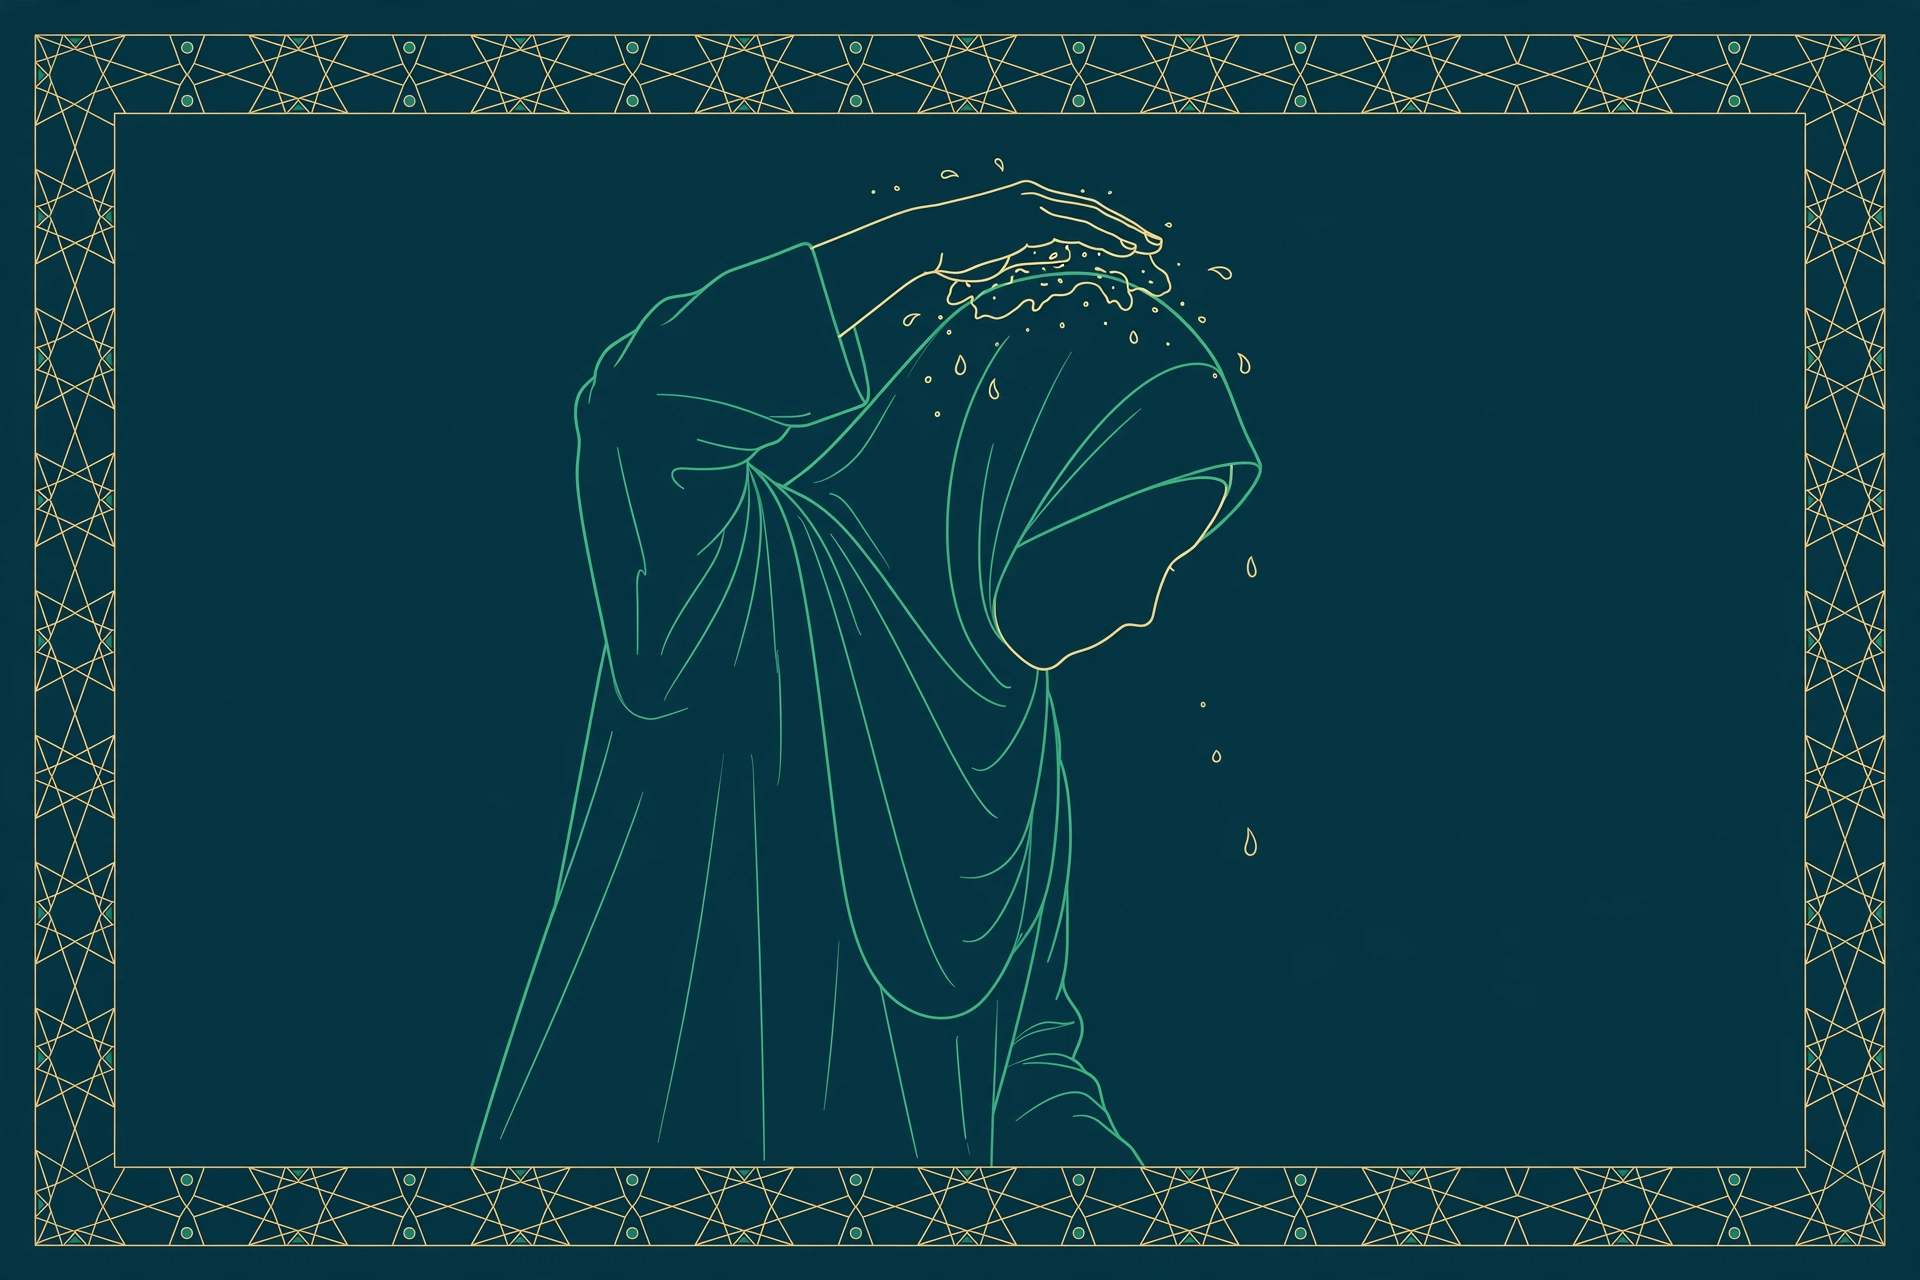
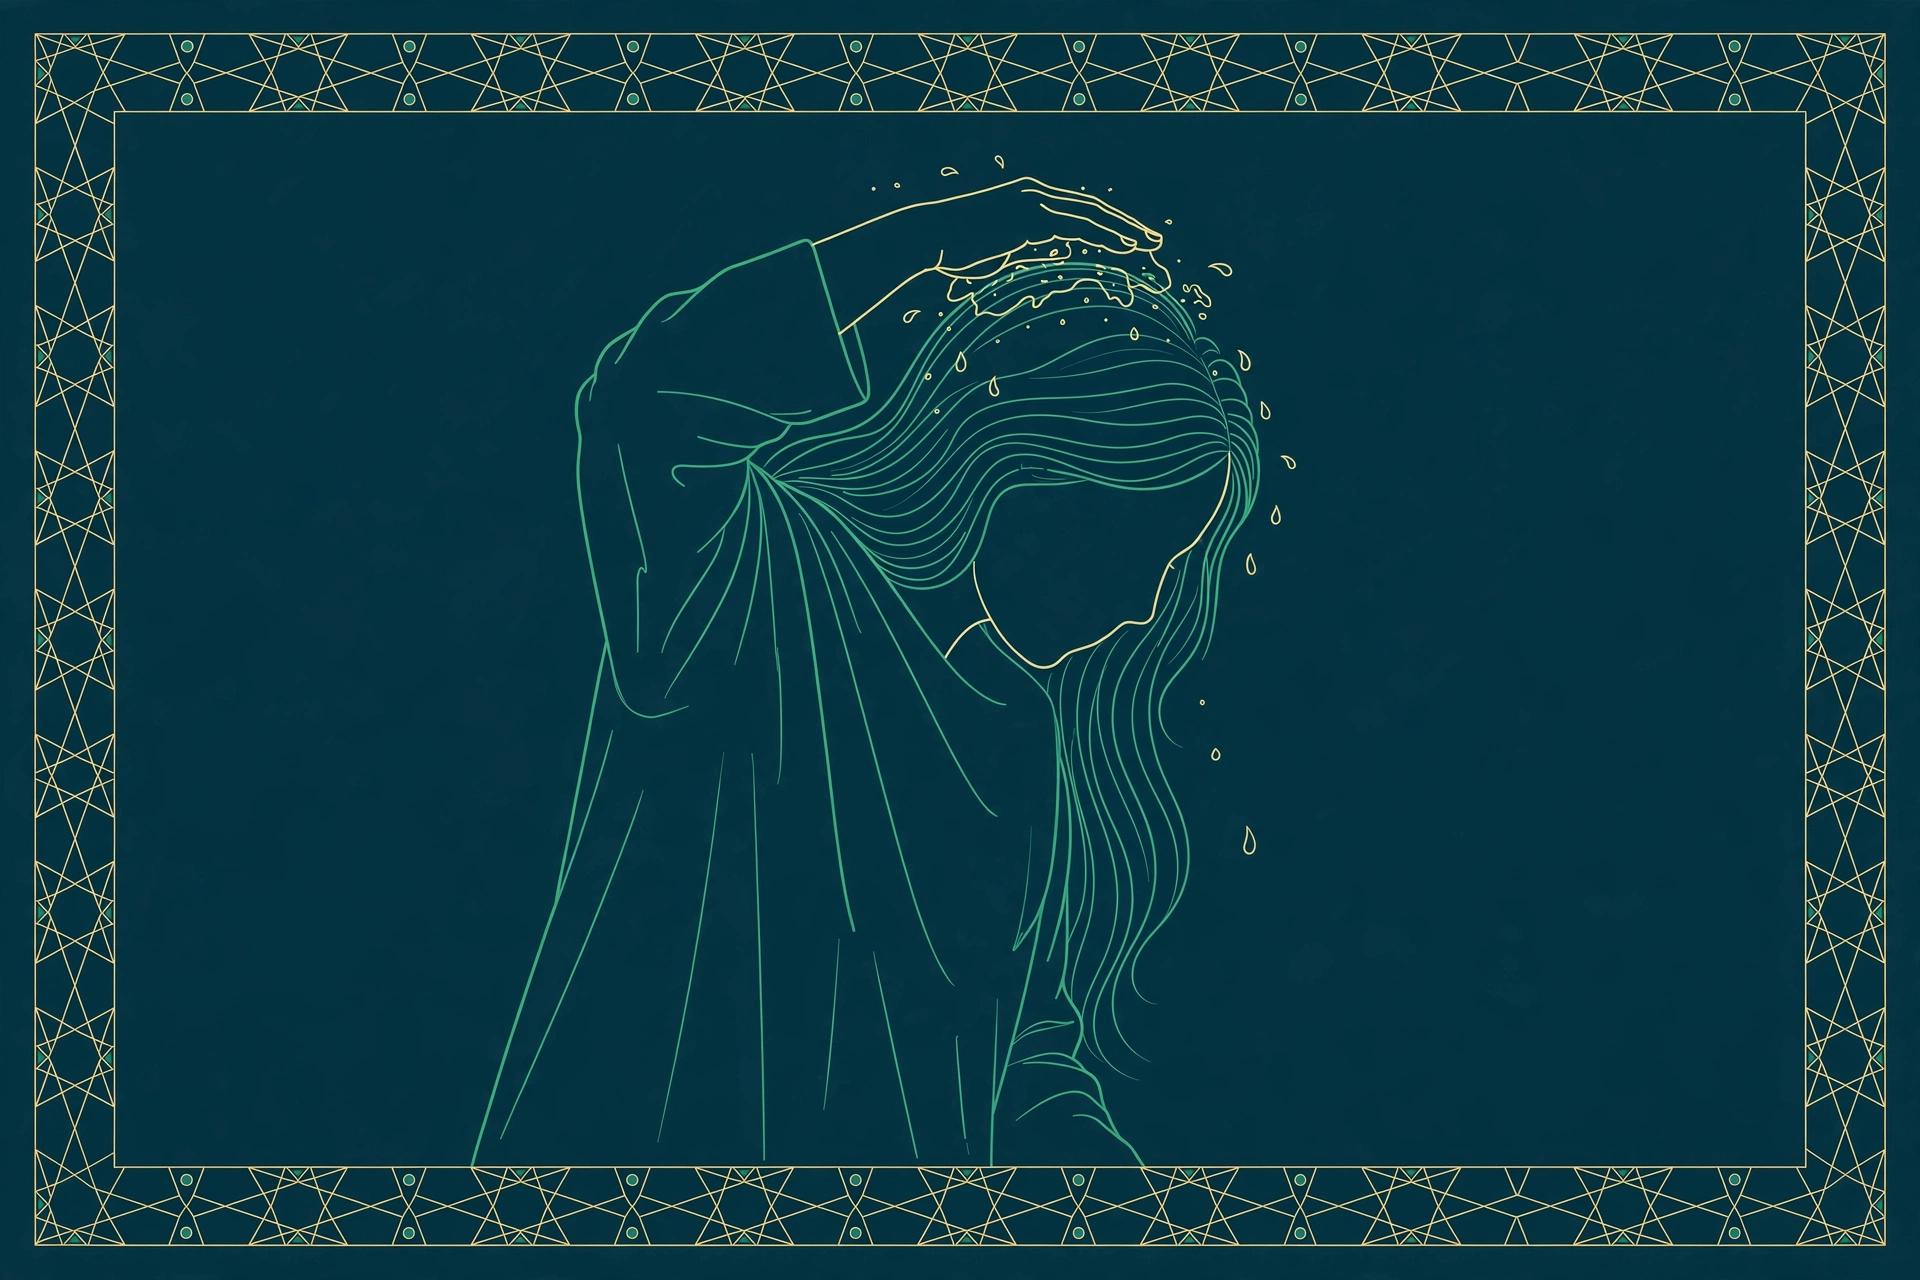
Wudu step 6: wipe the hair itself (hand at front hairline, wipe back); ears once; headcover only for extreme necessity. New wudu-6-head illustration.

diff --git a/learn.js b/learn.js
@@ -89,7 +89,7 @@ body: [
 ["p", "3. Rinse the nose three times, drawing water in gently and blowing it out."],
 ["p", "4. Wash the whole face three times, from the hairline to the chin and from ear to ear."],
 ["p", "5. Wash the right arm up to and including the elbow three times, then the left arm."],
-["p", "6. With wet hands, wipe over the whole head once (mas\u1E25), then wipe the ears inside and out."],
+["p", "6. With wet hands, wipe over the whole head once (mas\u1E25): place your wet hand at your front hairline and wipe backward over your head, then wipe the ears inside and out once. (Wiping over a headcover is only an exception for extreme necessity \u2014 for example, when visible to non-mahrams.)"],
 ["p", "7. Wash the right foot up to and including the ankle three times, then the left, making sure water reaches between the toes."],
 ["h", "What breaks wudu"],
 ["p", "Sleep, using the toilet, passing wind, and any bleeding are among the things that nullify wudu. When any of these happen, perform wudu again before the next prayer."],
@@ -200,7 +200,7 @@ body: [
 ["p", "3. Burna üç kez su çekip sümkürün."],
 ["p", "4. Yüzü saç bitiminden çeneye, kulaktan kulağa üç kez yıkayın."],
 ["p", "5. Önce sağ, sonra sol kolu dirseklerle birlikte üç kez yıkayın."],
-["p", "6. Islak ellerle başın tamamını bir kez mesh edin, ardından kulakların içini ve dışını mesh edin."],
+["p", "6. Islak ellerle başın tamamını bir kez mesh edin: ıslak elinizi alnınızdaki saç bitimine koyup başınızın üzerinden geriye doğru mesh edin, ardından kulakların içini ve dışını bir kez mesh edin. (Başörtüsü üzerinden mesh etmek, yalnızca aşırı zaruret hâlinde \u2014 örneğin nâmahremlerin görebileceği bir yerde \u2014 istisnadır.)"],
 ["p", "7. Önce sağ, sonra sol ayağı topuklarla birlikte üç kez yıkayın; suyun parmak aralarına ulaştığından emin olun."],
 ["h", "Abdesti bozan şeyler"],
 ["p", "Uyku, tuvalet ihtiyacı, yellenme ve kanama abdesti bozan şeylerdendir. Bunlardan biri olursa bir sonraki namazdan önce yeniden abdest alın."],

diff --git a/index.html b/index.html
@@ -483,7 +483,7 @@
   <script src="/prayer-api.js?v=6"></script>
   <script src="/push-alerts.js?v=9"></script>
   <script src="/app.js?v=103"></script>
-  <script src="/learn.js?v=4"></script>
+  <script src="/learn.js?v=5"></script>
   <script src="/hisnul.js?v=1"></script>
   <script src="/qadha.js?v=3"></script>
   <script src="/ramadan.js?v=1"></script>

diff --git a/tr/index.html b/tr/index.html
@@ -482,7 +482,7 @@
   <script src="/prayer-api.js?v=6"></script>
   <script src="/push-alerts.js?v=9"></script>
   <script src="/app.js?v=103"></script>
-  <script src="/learn.js?v=4"></script>
+  <script src="/learn.js?v=5"></script>
   <script src="/hisnul.js?v=1"></script>
   <script src="/qadha.js?v=3"></script>
   <script src="/ramadan.js?v=1"></script>
